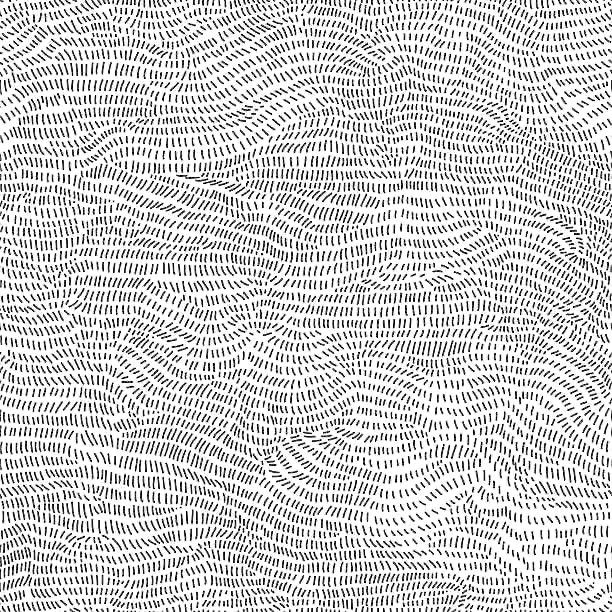
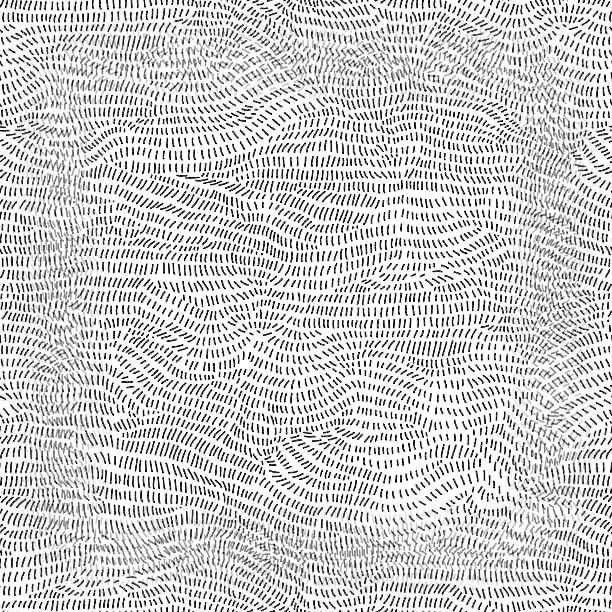
Finer road paving (reads as grey tone), seamless lighter backdrop pattern
Claude-Session: https://claude.ai/code/session_013q8Ryrb6rKoQT6gWzLkFts

Changed region(s): [[0.0, 0.0, 1.0, 1.0]]

diff --git a/ink.js b/ink.js
@@ -33,7 +33,7 @@ float scales(vec2 p, float px){
   vec2 c = vec2(i + .5 * odd, k * .5);
   float sd = abs(length(p - c) - .5);
   float line = 1. - smoothstep(px * .35, px * .85, sd);
-  return line * smoothstep(.45, .25, px);
+  return mix(.26, line, smoothstep(.34, .17, px));   // far away the arcs average out to a flat grey tone
 }
 vec2 groundXZ(vec2 uv){
   vec2 ndc = uv * 2. - 1.;
@@ -80,7 +80,7 @@ void main(){
   if (alphaAt(vUv) < .37 && sky < .5 && dir.y < -1e-4) {   // road surface (alpha .25): paving pattern instead of dots
     float t0 = -n.y / dir.y; vec2 w = n.xz + dir.xz * t0;
     vec2 g1 = groundXZ(vUv + vec2(px.x, 0.)), g2 = groundXZ(vUv + vec2(0., px.y));   // pixel footprint on the ground (no fwidth: it breaks across quads)
-    vec2 wp = w * 2.0; float L = scales(wp, max(length(g1 - w), length(g2 - w)) * 2.0);
+    vec2 wp = w * 6.0; float pxw = max(length(g1 - w), length(g2 - w)) * 6.0; float L = scales(wp, pxw);
     col = min(col, vec3(.89));                                    // road = light grey; white crossings / dashes stand out from it
     col = mix(col, vec3(.55), L * step(ink, .35) * .9);
   }
@@ -89,7 +89,7 @@ void main(){
     if (uPatOn > .5 && dir.y < -1e-4) {
       float t = (uPatY - n.y) / dir.y; vec2 w = (n.xz + dir.xz * t) / uPatScale;
       float pv = texture2D(tPattern, w).r;
-      col = mix(INK, PAPER, smoothstep(.3, .95, pv));
+      col = mix(vec3(.52), PAPER, smoothstep(.3, .95, pv));
     }
   }
   gl_FragColor = vec4(col, 1.);
@@ -99,7 +99,7 @@ export function createInkPass(renderer, { cell = 2.0, edge = 1 } = {}) {
   const target = new THREE.WebGLRenderTarget(4, 4, { samples: 4, depthTexture: new THREE.DepthTexture(4, 4), depthBuffer: true });
   target.depthTexture.type = THREE.UnsignedIntType;
   target.texture.minFilter = target.texture.magFilter = THREE.NearestFilter;
-  const pattern = new THREE.TextureLoader().load('./assets/pattern.png', (t) => { mat.uniforms.uPatOn.value = 1; });
+  const pattern = new THREE.TextureLoader().load('./assets/pattern.png?v=2', (t) => { mat.uniforms.uPatOn.value = 1; });
   pattern.wrapS = pattern.wrapT = THREE.RepeatWrapping; pattern.anisotropy = 8; pattern.minFilter = THREE.LinearMipmapLinearFilter;
   const mat = new THREE.ShaderMaterial({
     vertexShader: VERT, fragmentShader: FRAG, depthTest: false, depthWrite: false,

diff --git a/index.html b/index.html
@@ -290,6 +290,6 @@
   <p>This resets current orders, incidents and pigeons. Export your session first if needed. The original delivery simulation continues after the passage.</p>
   <div class="scen"><button id="placement-cancel">Cancel</button><button id="placement-confirm">Reset and start tour</button></div>
 </dialog>
-<script type="module" src="main.js?v=24"></script>
+<script type="module" src="main.js?v=25"></script>
 </body>
 </html>
